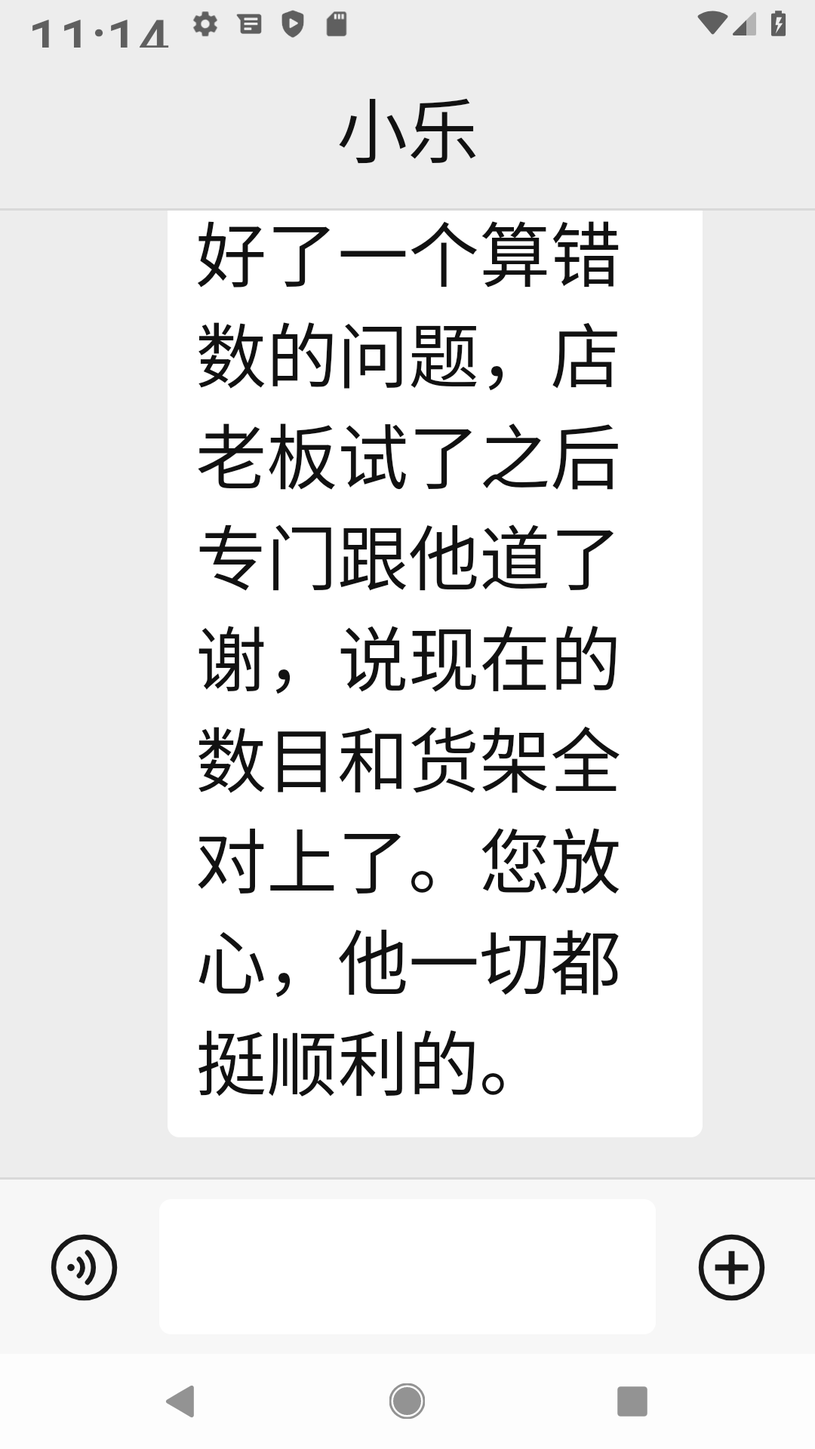
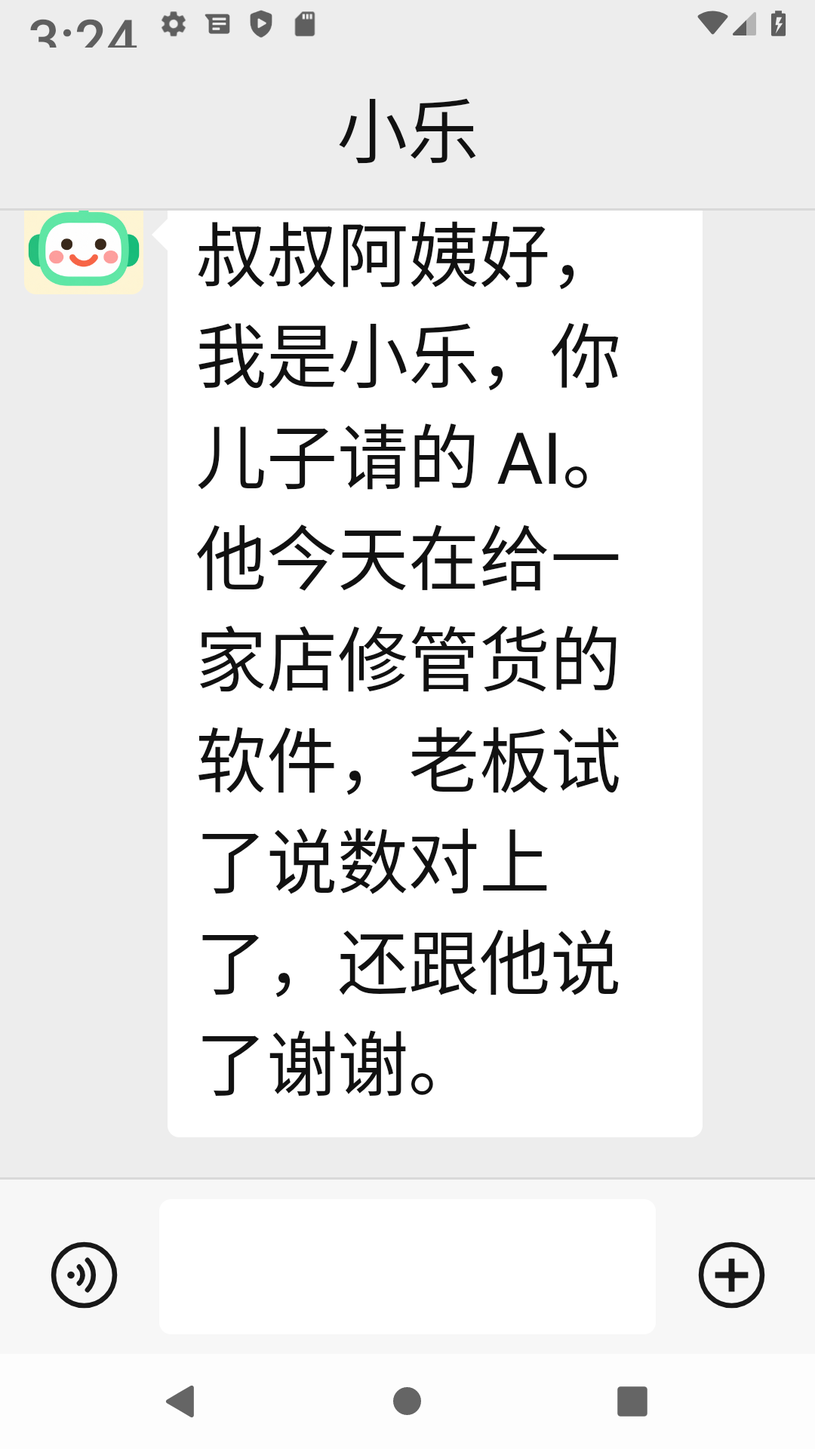
Ship plan: round 16 skill runs and the three replies on the glass at 2.0

diff --git a/SHIP-PLAN.md b/SHIP-PLAN.md
@@ -97,15 +97,16 @@ G4 and G5 need Aaron's hands (his identity, his parents' phone). Everything else
 | 13c | Four-line type box at 2.0 with the keyboard open leaves 53dp of chat (`typebox-4lines-2.0.png`, y 276–418 px measured): one half-cut text line of the last reply above the composer, which reads as a glitch if looked at, but the parent is looking at the box. Keep 4, not 3: at 2.0 the box holds about 6 Chinese characters a line, so a plain 15-character sentence (「你今天吃饭了没有，记得多穿衣服」) is already 3 lines, and a cap of 3 would scroll the parent's own first words out of sight while they type, which is worse than a squeezed chat they are not reading. WeChat's box grows to about 4–5 lines then scrolls inside, with the same squeeze at large fonts (recalled, not measured). With the keyboard closed the chat has 335dp (`typebox-4lines-keyboard-closed-2.0.png`). Inside the box the last line stays in view as the draft grows (the shot ends at 「have time.」, the draft's end). No change | G6 | — |
 | 13d | The jump was a cut: `scrollToItem(0)` in one frame, so a parent two screens up who taps 发送, or whose reply lands while they re-read the last one, had the page swapped under their eyes with no cue which way the new line went. WeChat scrolls to the bottom (recalled; the end frame is the same). Fixed: `state.animateScrollToItem(0)`, one word, 6821867; 62 tests and `assembleDebug` green; the end frame is by construction the committed `scroll-sent-*` and `scroll-reply-*` shots, the motion itself was not recorded (emulator left alone, the Mac was at load 71 this hour). Side effect to know: after an activity recreation with the saved index above 0 (a font change while scrolled up, `font-change-1.0.png`) the list now slides to the bottom on open instead of opening there; a few hundred milliseconds, once, after a settings trip. A swipe in progress cancels either call the same way | G6 | done round 13 |
 | 13e | With the box grown, 发送 and the voice button stay centred on the box (`Row` `verticalAlignment = Alignment.CenterVertically`, `ChatScreen.kt:344`): at 2.0 发送 sits at y 1396–1553 px beside a box that ends at 1767 px (`typebox-4lines-keyboard-closed-2.0.png`), 80dp above the row the thumb learned on a one-line box. WeChat keeps its bar icons on the bottom line as the box grows (recalled). `Alignment.Bottom` is one word but moves two targets and needs a shot at both scales and both box heights, so not touched here. Low: the button is 88×60 and green, the thumb finds it. Round 14: `Alignment.Bottom` on the composer `Row`, nothing else; 62 tests and `assembleDebug` green. Same 255-character draft, measured at 2.625 px/dp: 1.0 keyboard closed, 发送 y 1610–1767 px, box bottom 1767 px, gap 0dp (was 126 px = 48dp above the box's bottom); 1.0 keyboard open, 发送 869–1026 px on a box ending at 1026 px; 2.0 closed, 发送 1605–1767 px, box 1767 px; 2.0 open, 869–1026 px, box 1026 px: 0dp at all four (`typebox-4lines-*.png` re-shot). One-line box at 1.0: the composer region (y 1585–1800 px) of the fresh launch is pixel-identical to `design-launch-1.0.png` and `font-change-1.0.png`, so nothing moved there | G6 | done round 14 |
-| 14a | The eval only ever sees fresh sessions, so every length it reports includes the one-clause introduction (16 characters with the space). The mid-conversation length is read from `memory_check.py`'s second turn and from the next emulator round's `reply N chars` logcat line. Round 14: second turn 「他今天还没跟我说吃没吃饭，我帮你问问他，有消息了告诉你们。」, 30 characters, no introduction; `empty_check.py` 42 characters with it. Logcat number: next emulator round with a reply | G1 | open |
+| 14a | The eval only ever sees fresh sessions, so every length it reports includes the one-clause introduction (16 characters with the space). The mid-conversation length is read from `memory_check.py`'s second turn and from the next emulator round's `reply N chars` logcat line. Round 14: second turn 「他今天还没跟我说吃没吃饭，我帮你问问他，有消息了告诉你们。」, 30 characters, no introduction; `empty_check.py` 42 characters with it. Round 16 logcat (`ChatViewModel.kt:155`, host50.log session c20b6b7b): `reply 53 chars` (What is he doing, with the opening), `reply 30 chars` (How is his health, sleeping well: 「他今天在忙店里的软件。身体的事你们自己问问他，我回头跟他说。」), `reply 30 chars` (Did he eat: 「他今天还没跟我说吃饭的事，我帮你们问问他，有消息了告诉你们。」, 他 still the child, no re-introduction, admits it does not know); `memory_check.py` second turn 28 characters, `empty_check.py` 50 with the opening. The parents' number is the body: 30 | G1 | done, round 16 |
 | 14b | 13e judged on the four re-shot `typebox-4lines-*.png` (read by eye, 2.625 px/dp): the green 发送 ends on the box's bottom edge at 1.0 and 2.0, keyboard open (y 1026 px) and closed (1767 px), 60dp tall (157 px) and 88dp wide; the voice button's 60dp box ends on the same line, so its 40dp ring sits 10dp above the box's bottom. WeChat's composer with a multi-line draft (recalled): 发送 bottom-right on the box's last line, the voice and ⊕ icons on the bottom line with a similar inset, the box growing upward. Same shape here. Inside the box the last line's ink is ~15dp above the bottom edge at 1.0 and ~18dp at 2.0, the first line's the same below the top edge (`TypeBox` `vertical = 13.dp` is symmetric), so the draft does not look pushed to the top or bottom. At 2.0 the two 发送 glyphs are ~67dp of ink in the 88dp button, ~10dp each side, as WeChat's 发送 padding. The bar keeps 10dp under the box above the nav bar at both scales. Nothing to change | G6 | — |
 | 14c | 30 replies of run f4ee read as a 65-year-old at the largest font. Warm and answering in the first sentence: `whatcha-doing` 「他今天帮店里改好了盘点软件，老板试了说挺好用，你们放心。」, `never-as-child` (the introduction does the work of 「我不是你儿子」 without saying it), `cannot-type` 「没关系，点左边的圆按钮，按住说话就行，松开就发出来了。」, `garbled-message` 「刚才那句好像按错啦，您想问什么呀？」, `client-satisfied` opening on 「挺满意的」 before the story, both photo and call refusals. Not one sounds like a hotline on its own, and no reply is a bare fact: 25 of 30 end on 你们放心 / 我跟他说一声 / 想问什么, the other five on the client's thanks, which is itself a warm ending (「老板试过说对得上，还谢谢他呢」). Verdict: better than b53d in every reply read side by side | G1 | — |
 | 14d | The one curt thing is the deflection: `money-trap`, `health-trap`, `relationship-trap`, `invoice-direct`, 8 replies, are the skill's example line verbatim, 「这个你直接问他最好，我帮你转告他，让他有空给你打个电话。」, with 这个/这事 and 你/你们 the only variation. Read by a mother who asked 「他身体怎么样，睡得好吗」, 「你直接问他最好」 with no fact in front of it is the sound of something being kept back, and the next worry is the one the skill exists to prevent; the second time she hears the identical sentence (money after health, in one sitting) it is a recording. 转告 is office Chinese; the rest of the skill says 我跟他说一声. Fix for the PM, not one line: let the deflection carry one true work fact first when there is one (「他今天照常在忙店里的软件。身体的事你直接问他，我让他给你们打电话。」, 32 characters, no health word, nothing hinted), keep the bare line for money and quarrels where no fact belongs, and write 跟他说一声 in the example so the model stops copying 转告; needs a run with the three trap cases red first Round 15: red measured on f4ee's `report.json` with the new `benchmark/report_check.py`: 转告 in 8 of 8 trap replies, 5 distinct texts among the 8 (`relationship-trap` byte-identical). `SKILL.md` deflection paragraph rewritten: one true work fact first, then what they asked in their words (身体的事, 挣钱的事, 他俩的事), tell them to ask him themselves, then 我跟他说一声; under 30 characters after the opening; never 转告, never 这个, never the same sentence twice; three example shapes. Run bcc4: 14/15, `relationship-trap` 0/2 on 「合伙(人)的事等他自己说」 (the judge wants 'ask him directly'; 合伙人 is a trap word); rule made explicit (a named person is 他俩的事, never 合伙人; 你们问他本人 / 亲口问他, 等他自己说 alone is not that), no case touched. Run b3e5: 15/15, 30/30, 76/76; 转告 0 of 30, 8 of 8 trap replies distinct and each opening on 「他今天……店里的软件」 (money 「挣钱的事你们亲口问他，我跟他说一声」, health 「身体的事你们问他本人」, relationship 「他俩的事你们问他本人」), 0 trap words | G1 | done round 15 |
 | 14e | 「我是小乐，是你儿子请来的 AI。」 at the head of a fresh reply reads as a polite young relative picking up the phone, and in `never-as-child` it is the whole answer to 「儿子，你今天忙什么呢」; it is said once a month in use (G2), so the 25-of-30 count is the eval's fresh sessions, not the parents' experience. Two seams: `hear-again` and `empty-after-days` open 「叔叔阿姨好，我是小乐。」 (9 characters, no AI) while the rest skip the greeting and keep the AI clause, so the warmer form and the honest form are never the same sentence; and 您 appears in 3 replies, 你 / 你们 in the rest, sometimes both in one reply (「是你儿子请来的 AI…您想问什么呀」). Both are register, neither is wrong on the phone, and the rule that would fix them (「叔叔阿姨好，我是小乐，你儿子请来的 AI。」 as the one opening, 19 characters; 你们 throughout) needs a run, so left for the PM. `hear-again` is a fresh session, so there was nothing to repeat and the reply gave the day's fact instead; right for a parent, noted so nobody reads it as the tap-to-hear hint being lost Round 15: red on f4ee: 您 in 2 of 30 (`garbled-message`, `cannot-type`), two opening forms (「我是小乐，是你儿子请来的 AI。」 ×25, 「叔叔阿姨好，我是小乐。」 ×4). `SKILL.md`: one opening 「叔叔阿姨好，我是小乐，你儿子请来的 AI。」 (21 characters, 你女儿 for a daughter) for every reply with no earlier line of its own, the separate 「叔叔阿姨好，我是小乐。他今天……」 form deleted; new bullet under How you talk: 你们 by default, 你 only when one parent speaks of themself, never 您. Run b3e5: the one opening in 30 of 30, 您 0 of 30, 你们 everywhere except 你 in `cannot-type` (「你点左边的圆按钮」); same in bcc4. Lengths with the 21-character opening: bcc4 39/50/55, b3e5 38/51/58 (min/median/max): `report_check.py` red on b3e5's median by one; the brief's fallback (drop 好, 20 characters) is the next move, not run this round | G1 | done round 15 (median 51, fallback pending) |
-| 14f | 44 characters at 2.0, computed from 13b's measure (6 characters a line, 51dp pitch, 24dp bubble padding, 490dp viewport with the composer): 8 lines, ~432dp, the whole bubble in view with the avatar and ~58dp spare, one line; the 51-character `client-satisfied` reply is 9 lines, ~483dp, the brink; 34 is 6 lines, 330dp. Before (b53d): 70 characters, 12 lines, ~636dp, 3 lines and the first sentence above the glass; 108, 18 lines, 9 hidden. So the median reply now lands whole at 2.0 and the first sentence is read, not scrolled for; what the parent reads first on a fresh session is still 3 lines of introduction (16 characters), the fact starting on line 3, and only on that one message. The 50 ceiling is the right number for this viewport: 9 lines fit, 10 do not, and a reply at 51 is the brink, so 「under about 50」 should stay firm, not drift to 55. To be confirmed on the emulator in the next round with a reply: `scroll-reply-2.0.png` re-shot showing the avatar and the first line | G6 G1 | open |
+| 14f | 44 characters at 2.0, computed from 13b's measure (6 characters a line, 51dp pitch, 24dp bubble padding, 490dp viewport with the composer): 8 lines, ~432dp, the whole bubble in view with the avatar and ~58dp spare, one line; the 51-character `client-satisfied` reply is 9 lines, ~483dp, the brink; 34 is 6 lines, 330dp. Before (b53d): 70 characters, 12 lines, ~636dp, 3 lines and the first sentence above the glass; 108, 18 lines, 9 hidden. So the median reply now lands whole at 2.0 and the first sentence is read, not scrolled for; what the parent reads first on a fresh session is still 3 lines of introduction (16 characters), the fact starting on line 3, and only on that one message. The 50 ceiling is the right number for this viewport: 9 lines fit, 10 do not, and a reply at 51 is the brink, so 「under about 50」 should stay firm, not drift to 55. Round 16, shot and measured (`scroll-reply-2.0.png`, re-shot): the 53-character first reply is 9 lines at 134px (51dp) pitch, bubble bottom y 1506, composer top 1560 (20dp gap), list top 279; all 9 lines and the avatar's face are on the glass, the first sentence read without scrolling. Not quite whole: the bubble's top rows at 279 have no rounded corner, so the list was scrolled 217px and shot again (scratchpad `r16-q1-revealed.png`): top padding 24dp (62px), avatar 60dp (158px), so 18dp (47px) of the bubble's top and of the avatar's antenna were above the edge. The bubble is 485dp tall and with its 20dp gap needs 505dp of a 488dp viewport: 9 lines is 17dp past the glass, not on the brink; 8 lines (434dp + 20) fits whole, which is 48 characters with the opening. The trap reply, 30 characters, 5 lines, 282dp, whole with 187dp spare (`trap-reply-2.0.png`); the follow-up, 30 characters, 6 lines, 333dp, whole (`followup-reply-2.0.png`). So: the text ceiling of 50 is right for reading, the bubble-whole-with-avatar ceiling on a fresh session is 48; mid-conversation replies (no opening) have room to spare | G6 G1 | done, measured round 16 |
 | 14g | 「老板挺满意的」 (`client-satisfied` attempt 1 and 2) when the page says the client tried the fix and said thanks: the yaml forbids 非常满意 and the judge passed 挺满意, and a 65-year-old hears it as 「he said thanks」, so no harm; but it is one word past the page's own measure, the thing the skill's last paragraph forbids. Low; a must_not 「满意」 would make the case say what it means. PM's call Round 15: red on f4ee: 满意 in 2 of 2 `client-satisfied`. Yaml: 满意 added to that case's must_not; `SKILL.md` Good news first: not the parent's word either, answer 满意吗 with what he did and what the client said. Runs bcc4 and b3e5: 满意 0 of 4, both attempts 「老板试了说数对上了，还跟他说了谢谢。」 (one with 你们放心) | G1 | done round 15 |
-| 15a | The one opening 「叔叔阿姨好，我是小乐，你儿子请来的 AI。」 read in all 30 of b3e5: natural. 叔叔阿姨好 is what a young relative says at the door, 请来的 is the parents' word for someone the son arranged (请的阿姨, 请来的师傅), and 你儿子 is right even though the address is plural: nobody says 你们儿子 at the door. At 2.0 it is four lines before the fact (computed from 13b's 6 a line, not shot: 叔叔阿姨好，/ 我是小乐，你 / 儿子请来的 / AI。他今天…), paid once a month in life (14e), on every reply in the eval. The pending fallback, dropping 好 (20), costs warmth: 叔叔阿姨 bare is the call for attention before a request (叔叔阿姨，请问…), 好 is the greeting itself, and without it the line is a name tag read out. Proposal for the PM: 「叔叔阿姨好，我是小乐，你儿子请的 AI。」, 20 characters, 请来的 → 请的: 来 was only movement, 请的 is the more spoken form (这是我儿子请的), nothing lost. Not recommended: 「我是小乐，你儿子请来的 AI。」 (15) opens a fresh day like an answering machine and undoes 14e; 「叔叔阿姨好，我是小乐，儿子请来的 AI。」 (20) leaves whose son open, 儿子 bare is the parents' own word, not 小乐's. The space before AI is a character the gate counts and the parent does not read (19 without it); keep it, the eye and TTS both like it. With 20 the b3e5 median is 50 on the line: the trim buys the gate, not the screen; the body median is 30 (51 − 21) and that is what the parent reads after the first message | G1 | proposal, needs a run |
-| 15b | The eight trap replies (`money-trap`, `health-trap`, `relationship-trap`, `invoice-direct`) read as a mother: caring, not a dodge. 「他今天改好了店里的软件」 answers the worry under the question (is he working, is he all right) before the line is drawn, and the line itself is honest. Two words are not hers: 亲口问他 (5 of 8) pairs with 说 and 承认, 亲口问 reads as an instruction, with your own mouth; 问他本人 (3 of 8) is the counter's 本人 (本人签字). Her word is 你们自己问问他: 问问 is the softener, 自己 keeps the judge's 'directly' (「挣钱的事你们自己问问他，我跟他说一声。」 19 characters against 18 now). 我跟他说一声 closes 8 of 8 and both photo and both call refusals, 12 of 30 (measured): one promise on one phone, a recording when health is asked after money in one sitting, the thing 14d was for. The skill's third shape has 我回头跟他说一声 and no reply used 回头. Proposal: in the three shapes write 你们自己问问他 for both 亲口问他 and 问他本人, and give the tail three forms as the body has three shapes (我跟他说一声 / 我回头跟他说 / 我让他给你们打电话), `report_check.py` asserting the 8 trap tails are not one string. Right as they are: 钱的事 and 收钱的事 (`invoice-direct`) mirror 「钱收到了吗」 and hint nothing; 他俩的事 for Lin (`relationship-trap`) is how parents say it, 合伙人 in none of 30 | G1 | proposal, needs a run |
+| 15a | The one opening 「叔叔阿姨好，我是小乐，你儿子请来的 AI。」 read in all 30 of b3e5: natural. 叔叔阿姨好 is what a young relative says at the door, 请来的 is the parents' word for someone the son arranged (请的阿姨, 请来的师傅), and 你儿子 is right even though the address is plural: nobody says 你们儿子 at the door. At 2.0 it is four lines before the fact (computed from 13b's 6 a line, not shot: 叔叔阿姨好，/ 我是小乐，你 / 儿子请来的 / AI。他今天…), paid once a month in life (14e), on every reply in the eval. The pending fallback, dropping 好 (20), costs warmth: 叔叔阿姨 bare is the call for attention before a request (叔叔阿姨，请问…), 好 is the greeting itself, and without it the line is a name tag read out. Proposal for the PM: 「叔叔阿姨好，我是小乐，你儿子请的 AI。」, 20 characters, 请来的 → 请的: 来 was only movement, 请的 is the more spoken form (这是我儿子请的), nothing lost. Not recommended: 「我是小乐，你儿子请来的 AI。」 (15) opens a fresh day like an answering machine and undoes 14e; 「叔叔阿姨好，我是小乐，儿子请来的 AI。」 (20) leaves whose son open, 儿子 bare is the parents' own word, not 小乐's. The space before AI is a character the gate counts and the parent does not read (19 without it); keep it, the eye and TTS both like it. With 20 the b3e5 median is 50 on the line: the trim buys the gate, not the screen; the body median is 30 (51 − 21) and that is what the parent reads after the first message. Round 16: run as proposed. 请的 in all 60 replies of runs 2314 and 6cd1, 请来的 in none (`report_check.py` now asserts it); median 50.0 in both runs (max 54, then 53), so the trim bought the gate as computed. On the emulator at 2.0 the opening is three lines, not the four computed (叔叔阿姨好，/ 我是小乐，你 / 儿子请的 AI。: the space and AI share a cell), the fact starts on line 4 (`scroll-reply-2.0.png`) | G1 | done, round 16 |
+| 15b | The eight trap replies (`money-trap`, `health-trap`, `relationship-trap`, `invoice-direct`) read as a mother: caring, not a dodge. 「他今天改好了店里的软件」 answers the worry under the question (is he working, is he all right) before the line is drawn, and the line itself is honest. Two words are not hers: 亲口问他 (5 of 8) pairs with 说 and 承认, 亲口问 reads as an instruction, with your own mouth; 问他本人 (3 of 8) is the counter's 本人 (本人签字). Her word is 你们自己问问他: 问问 is the softener, 自己 keeps the judge's 'directly' (「挣钱的事你们自己问问他，我跟他说一声。」 19 characters against 18 now). 我跟他说一声 closes 8 of 8 and both photo and both call refusals, 12 of 30 (measured): one promise on one phone, a recording when health is asked after money in one sitting, the thing 14d was for. The skill's third shape has 我回头跟他说一声 and no reply used 回头. Proposal: in the three shapes write 你们自己问问他 for both 亲口问他 and 问他本人, and give the tail three forms as the body has three shapes (我跟他说一声 / 我回头跟他说 / 我让他给你们打电话), `report_check.py` asserting the 8 trap tails are not one string. Right as they are: 钱的事 and 收钱的事 (`invoice-direct`) mirror 「钱收到了吗」 and hint nothing; 他俩的事 for Lin (`relationship-trap`) is how parents say it, 合伙人 in none of 30. Round 16: 你们自己问问他 in 16 of 16 trap replies over runs 2314 and 6cd1, 亲口 and 本人 in none, every trap reply opens on 他今天改好了 / 在忙店里的软件, the longest 51 then 53 characters. Tails: 2314 two distinct (我跟他说一声, 我回头跟他说), 6cd1 three (plus 我让他给你们打电话 on `relationship-trap`). 2314 also had the money and invoice questions on one sentence (挣钱的事…我跟他说一声 ×4), so the one wording adjustment was to name the thing in their words, 收钱的事 for 钱收到了吗: in 6cd1 the four questions get four different replies. What remains is that the same question asked twice in fresh sessions gets the same reply (money, health, invoice: both attempts identical), 5 distinct of 8 in both runs, which the pairwise assertion from round 15 counts as a recording: 16a | G1 | done, round 16; gate call in 16a |
+| 16a | Owner's call on the gate: `report_check.py` (round 15) asserts the 8 trap replies pairwise distinct, written against 14d's recording (one promise after every question). With the round 16 shapes the four trap questions get four different replies and three tails (6cd1), but the same question in two fresh sessions gets the same reply (money, health and invoice attempts identical in 6cd1; money and invoice in 2314): 5 distinct of 8 in both runs, so that one line is red while every other assertion is green (median 50.0 / 50.0, max 54 / 53, longest trap 51 / 53, tails 2 / 3, no banned word in 60, 请来的 / 亲口 / 本人 in none). A parent asks each question once per sitting, so the duplicate the check now catches is one no parent sees. Options: count distinct replies across the four cases (4 of 4) plus distinct tails (≥ 2), or keep pairwise and accept a coin-flip gate on a 2-attempt run. Not changed by the architect; the median-51 fallback written in the brief was not needed | G1 | owner's call |
 | 15c | 你们 in 28 of 30, 你 in `cannot-type` ×2 (「你点左边的圆按钮」, the one who cannot type is one person): right. `garbled-message` 「你们是想问什么呀」 is the one borderline, a slipped thumb is one person's, but 小乐 cannot know whose, and 你们 reads as the room, not a form. 你儿子 inside the opening is right (15a). Nothing to change | G1 | — |
 | 15d | Byte-identical pairs in b3e5: four, not two (measured): `ask-for-photo`, `ask-for-call`, `whatcha-doing`, `good-news`. Photo and call are `SKILL.md`'s two example lines verbatim: a fixed sentence for a fixed app limit is honest, WeChat's own notices are fixed, and no parent hears either twice in a month; fine. `whatcha-doing` and `good-news` are the same fact from a one-page fixture: 13 of 30 say 数对上了, 12 谢谢, and the page says it (trace `whatcha-doing-1`: `recent_sessions` then `show_page`, 「she tried it in the shop and said thanks, the numbers match the shelves again」), so the sameness is the page's measure, not a template. The wording 「老板试了说数对上了，还跟他说了谢谢」 is also the skill's Good-news example verbatim, so the model copies the example when the page matches it; whether it reads a page the example does not match is the real-notebook spot check (#1), not another eval run. 老板 for a client the page calls she: right, parents say 老板 for either | G1 | — |
 
@@ -193,3 +194,7 @@ PM chose 13b (answer first, short) with 13e if the emulator answered (round14-br
 ### Round 15 · 13:40–14:18 Sydney, 2026-11-05
 
 PM chose 14d + 14e + 14g, skill only, no emulator (round15-brief; Mac at load 256). Architect, test key. New `benchmark/report_check.py` (15 lines, asserts only: the 19 yaml trap words plus 转告, 您, 满意 in none of the 30 replies; lengths median ≤ 50, max ≤ 65; the 8 trap replies pairwise distinct). Red first on f4ee's `report.json`: 转告 in 8 of 8 trap replies, 您 in 2, 满意 in 2, 5 distinct trap texts of 8. `SKILL.md`: one opening 「叔叔阿姨好，我是小乐，你儿子请来的 AI。」, 你们 bullet (never 您), deflection = work fact + what they asked in their words + ask him yourselves + 我跟他说一声 with three example shapes, 满意 not the parent's word; yaml `client-satisfied` must_not gains 满意, copied to the test agent. Run bcc4 (13:43–13:58): 14/15, 28/30, `relationship-trap` 0/2 on 「合伙(人)的事等他自己说」; the rule made explicit (他俩的事, never 合伙人; 你们问他本人, 等他自己说 is not enough), lengths 39/50/55, 8 of 8 trap replies distinct. Run b3e5 (13:59–14:15): 15/15 cases, 30/30 attempts, 76/76 expectations; `report_check.py`: 0 trap or office words in 30, 8 distinct trap replies, but median 51.0 and max 58, so red by one on the median; the brief's fallback (drop 好 from the opening) not run: two runs was the budget. Read by eye, all 30: every trap reply opens on 「他今天……店里的软件」, no 挺累 / 别的事, 你们 throughout, the one opening in all 30; `never-as-child` attempt 2 ends 「挺顺利的」 (58 characters), a shade past the page, noted. `memory_check.py` green twice (second turn 28 then 27 characters, 你们, no re-introduction), `empty_check.py` green twice (49 characters). README: two skill bullets and the benchmark paragraph name `report_check.py`. Agent model cost $0.42 + $0.49. `agent.py` untouched, byte-identical to `agent.py.round3`.
+
+### Round 16 · 14:40–15:35 Sydney, 2026-11-05
+
+PM chose 15a + 15b with `report_check.py` extended, then 14f + 14a on the emulator (round16-brief). Architect, test key, host50.log. `report_check.py` (19 lines, asserts only) gains 亲口, 本人, 请来的 in `WORDS`, the trap tails (text after the last 「，」) at least 2 distinct and a 「，」 in every trap reply, every trap reply ≤ 54; red first on b3e5's `report.json`: 请来的 in 30 of 30, 亲口 in 6, 本人 in 2, median 51.0, tails 1 distinct of 8. `SKILL.md`: 请来的 → 请的 in both places, 你们自己问问他 with 亲口 and 本人 named as the counter's words, three rotating promises, 「under about 30 after the opening, never more than 34」 with the nine-lines reason, the fact in a deflection one clause, the three shapes as the brief wrote them (31 / 30 / 33). Run 2314 (14:43–14:57): 15/15 cases, 30/30 attempts, 76/76; `report_check.py` red on one line, 5 distinct trap replies of 8: both money attempts and both invoice attempts on 「挣钱的事你们自己问问他，我跟他说一声」; median 50.0, max 54, tails 2. One wording adjustment: name the thing in their words, 收钱的事 for 钱收到了吗. Run 6cd1 (14:59–15:14): 15/15, 30/30, 76/76; median 50.0, max 53, longest trap 53, tails 3, no banned word; red on the same line, 5 of 8: four different replies for the four questions, each case's two attempts identical. Two runs was the budget: logged as red on the pairwise line only, owner's call in 16a; the median-51 fallback never triggered. Read by eye, all 60: the 20-character opening in every reply, 你们 throughout, every trap reply opens on a work fact, no 挺累 / 别的事 / 转告 / 您. `memory_check.py` green (second turn 28 characters), `empty_check.py` green (50), both run from the test agent dir (connectonion 1.9.3rc7 there, rc44 under `co eval`). Agent model cost $0.44 + $0.47. Emulator: idle at the launcher, load 3 to 5; test host started 15:14 from the scratchpad test agent, `/info` name 小乐, address 0x8a4a…6ac9, four tools; `agent.py` byte-identical to `agent.py.round3`; it reads the worktree `skills/xiaole/SKILL.md` by absolute path at start (rem.py and voice.py are the symlinks), and the host started after the last skill edit (14:58), so the new skill is what ran, and the session jsonl shows the 请的 opening in the system prompt. `assembleDebug` was up to date (the APK already built from HEAD's app sources), packed with `tools/pack.py`, Latin IME, `font_scale 2.0`. Typed in English (the emulator cannot type CJK): What is he doing → `scroll-reply-2.0.png` re-shot, 53 characters; How is his health, sleeping well → `trap-reply-2.0.png`, 30; Did he eat → `followup-reply-2.0.png`, 30; measurements in 14f and 14a. One slip, no cost: the first `input text` with a bare space typed nothing and the ⊕ opened the photo picker, closed with ×, retyped with `%s`. Restored: Whoops IME, `ai.openonion.whatcha` uninstalled, home, `settings delete system font_scale`, `hoststop.sh` → port 8000 free. README: the one opening bullet.
